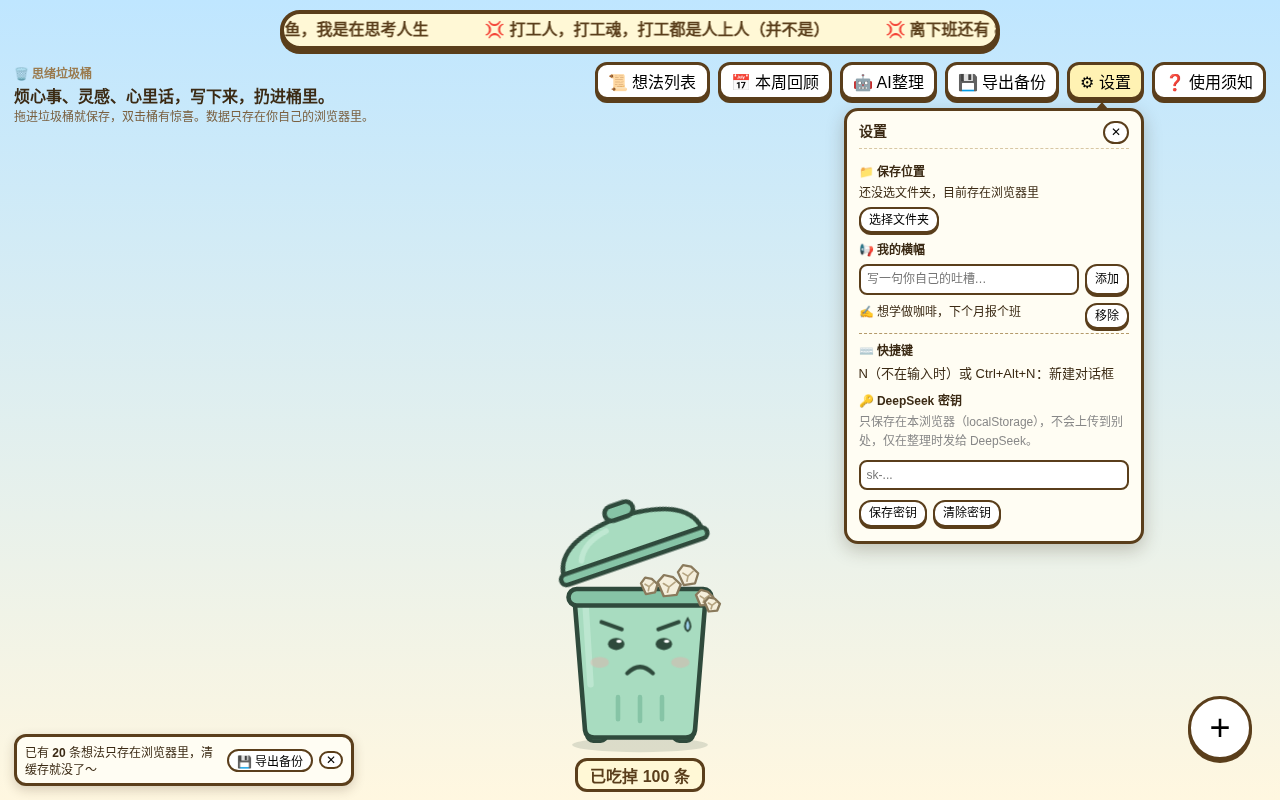
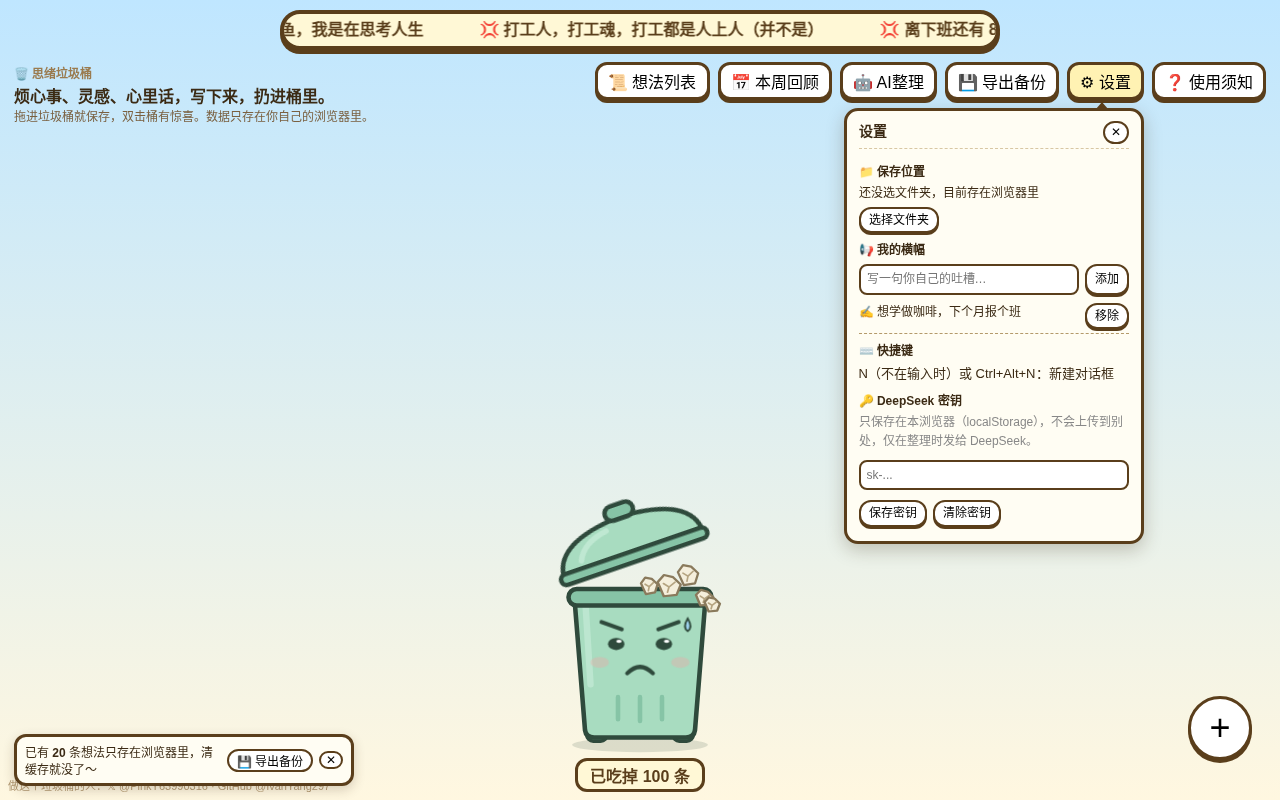
v1.1.1：新增作者 X / GitHub 链接（主页左下角、欢迎页底部、使用须知、README），冒烟测试校验链接与不压桶

diff --git a/js/help.js b/js/help.js
@@ -15,7 +15,7 @@ export function initHelpPopover(btn, onTour) {
   pop.id = 'help-pop'; pop.setAttribute('role', 'tooltip'); pop.tabIndex = -1;
   pop.innerHTML = `<div class="help-title">使用须知 <span class="ver">v1.1.1</span></div>` + SECTIONS.map(([h, items]) =>
     `<section><h4>${h}</h4>${items.map(i => `<p>${i}</p>`).join('')}</section>`).join('') +
-    `<p class="help-tour"><button id="help-tour">🧭 再看一遍新手引导</button></p><p class="help-foot">除了 AI 整理，全部可离线使用<br>本站使用 Cloudflare Web Analytics，仅用于匿名访问统计，不上传任何想法内容。</p>`;
+    `<p class="help-tour"><button id="help-tour">🧭 再看一遍新手引导</button></p><p class="help-foot">除了 AI 整理，全部可离线使用<br>本站使用 Cloudflare Web Analytics，仅用于匿名访问统计，不上传任何想法内容。</p><p class="help-contact"><a href="https://x.com/PinkY63990316?utm_source=ttb" target="_blank" rel="noopener">有想法、遇到问题？来 X 找我聊。</a></p>`;
   document.body.appendChild(pop);
   pop.querySelector('#help-tour').onclick = () => { pop.classList.remove('show'); onTour?.(); };
   btn.setAttribute('aria-describedby', 'help-pop'); btn.removeAttribute('title');

diff --git a/index.html b/index.html
@@ -76,6 +76,7 @@
   <div id="panel-body"></div>
 </aside>
 <div id="toast"></div>
+<footer id="author" class="author-links">做这个垃圾桶的人：<a href="https://x.com/PinkY63990316?utm_source=ttb" target="_blank" rel="noopener">𝕏 @PinkY63990316</a> · <a href="https://github.com/IvanYang297" target="_blank" rel="noopener">GitHub @IvanYang297</a></footer>
 <section id="landing" hidden>
   <div class="land-box">
     <h1>思绪垃圾桶</h1>
@@ -89,6 +90,7 @@
       <p>上班时脑子停不下来的打工人、想随手记灵感又懒得开笔记软件的人、需要找个地方吐槽和说心里话的人。</p>
     </div>
     <a href="#" id="land-skip">跳过</a>
+    <p class="land-author author-links">做这个垃圾桶的人：<a href="https://x.com/PinkY63990316?utm_source=ttb" target="_blank" rel="noopener">𝕏 @PinkY63990316</a> · <a href="https://github.com/IvanYang297" target="_blank" rel="noopener">GitHub @IvanYang297</a></p>
   </div>
 </section>
 <script type="module" src="js/main.js"></script>

diff --git a/css/style.css b/css/style.css
@@ -184,3 +184,11 @@ pre.result{white-space:pre-wrap;background:#fff;border:2px solid #ddd;padding:8p
 #backup-nudge button{font-size:12px;padding:1px 8px;border-width:2px;box-shadow:none}
 #backup-nudge .x{padding:0 5px}
 #help-pop .help-title .ver{font-size:11px;font-weight:normal;color:#9a7b4f;margin-left:4px}
+
+/* 作者链接：小字、淡色，放在左下角，宽度限制在垃圾桶左边，不压桶 */
+#author{position:fixed;left:8px;bottom:6px;z-index:5;max-width:calc(50vw - min(110px,15vw) - 20px);font-size:11px;line-height:1.4;color:#9a7b4f;opacity:.75;pointer-events:none}
+#author a,.author-links a{color:inherit;text-decoration:none;pointer-events:auto}
+#author a:hover,.author-links a:hover{text-decoration:underline}
+#author:hover{opacity:1}
+#landing .land-author{font-size:11px;color:#9a7b4f;margin:8px 0 0;opacity:.85}
+#help-pop .help-contact{margin:4px 0 0}#help-pop .help-contact a{color:#5a3e1b}

diff --git a/tests/smoke_test.py b/tests/smoke_test.py
@@ -303,6 +303,8 @@ with sync_playwright() as p:
     op.goto('http://127.0.0.1:8766/index.html'); op.wait_for_selector('#landing:not([hidden])')
     assert op.inner_text('#landing h1') == '思绪垃圾桶' and op.inner_text('#land-enter') == '进入垃圾桶 →' and '这是什么' in op.inner_text('#landing')
     op.screenshot(path=os.path.join(ROOT, 'docs', 'landing.png'))
+    la = op.locator('#landing .land-author a').evaluate_all('as => as.map(a => [a.href, a.target, a.rel])')
+    assert la == [['https://x.com/PinkY63990316?utm_source=ttb', '_blank', 'noopener'], ['https://github.com/IvanYang297', '_blank', 'noopener']], la; print('欢迎页作者链接 OK')
     op.click('#land-enter'); op.wait_for_selector('#tour-tip')
     assert '想到什么就写在这张卡片上' in op.inner_text('#tour-tip') and op.locator('.bubble.tour-mark').count() == 1
     seen = []
@@ -361,6 +363,19 @@ with sync_playwright() as p:
     vals = fp.locator('.bubble textarea').evaluate_all('ts => ts.map(t => [t.value, t.placeholder])')
     assert vals and all(v == '' and ph for v, ph in vals), vals
     assert fp.get_attribute('#trash', 'data-state') == 'happy' and float(fp.get_attribute('#trash', 'data-mood')) == 0 and 'Q120.0 192.0' in fp.get_attribute('#mouth-smile', 'd')
+    X, G = 'https://x.com/PinkY63990316?utm_source=ttb', 'https://github.com/IvanYang297'
+    def ov(a, c): return not (a['x'] + a['width'] <= c['x'] or c['x'] + c['width'] <= a['x'] or a['y'] + a['height'] <= c['y'] or c['y'] + c['height'] <= a['y'])
+    def author_ok(pg):
+        hr = pg.locator('#author a').evaluate_all('as => as.map(a => [a.href, a.target, a.rel, a.textContent])')
+        assert hr == [[X, '_blank', 'noopener', '𝕏 @PinkY63990316'], [G, '_blank', 'noopener', 'GitHub @IvanYang297']], hr
+        assert '做这个垃圾桶的人' in pg.text_content('#author')
+        fb = pg.locator('#author').bounding_box()
+        for sel in ['#trash-wrap', '#toolbar', '#btn-add'] + [f'.bubble >> nth={i}' for i in range(pg.locator('.bubble').count())]:
+            assert not ov(fb, pg.locator(sel).bounding_box()), (sel, fb)
+        assert fb['height'] < 80 and float(pg.evaluate("getComputedStyle(document.querySelector('#author')).fontSize").rstrip('px')) <= 12
+        hp = pg.locator('#help-pop .help-contact a'); assert hp.get_attribute('href') == X and hp.text_content() == '有想法、遇到问题？来 X 找我聊。'
+        return fb
+    print('作者链接 OK（桌面）', author_ok(fp))
     fp.evaluate('document.activeElement.blur()'); fp.wait_for_timeout(500)
     fp.screenshot(path=os.path.join(ROOT, 'docs', 'screenshot.png'))
     fp.click('#btn-list'); fp.wait_for_timeout(200); eb = fp.locator('#panel').bounding_box()
@@ -372,6 +387,7 @@ with sync_playwright() as p:
     ms = mp.locator('.bubble .tag-picker button').first.evaluate("b => [b.getBoundingClientRect().width, parseFloat(getComputedStyle(b.querySelector('.tg')).fontSize)]")
     assert ms[0] >= 48 and ms[1] >= 24, ms
     mp.locator('.bubble [data-tag=rant]').first.tap(force=True); mp.wait_for_timeout(200)
+    print('作者链接 OK（手机 390）', author_ok(mp))
     assert mp.text_content('#tag-tip') == '已选：吐槽'; mob.close(); print('触屏大按钮 + 点按提示 OK', ms)
     print('默认状态全为空提示语 OK:', [ph for _, ph in vals])
     b.close()

diff --git a/README.md b/README.md
@@ -1,5 +1,7 @@
 # 🗑 思绪垃圾桶
 
+作者：[@IvanYang297](https://github.com/IvanYang297) ｜ X：[@PinkY63990316](https://x.com/PinkY63990316)
+
 一个把乱糟糟的想法、上班吐槽、心里话随手“丢掉”的小网页。丢进去的东西不会消失，而是存成 Markdown 文件，需要时还能让 AI 帮你整理成计划。
 
 ![截图](docs/screenshot.png)

diff --git a/CHANGELOG.md b/CHANGELOG.md
@@ -2,6 +2,7 @@
 
 ## v1.1.1（2026-10-22）
 - 本周回顾图片底部加印网址 `thought-trash-bin.pages.dev`，在微信里转发图片也能找到网站。
+- 新增作者 X / GitHub 链接：主页左下角和欢迎页底部各一行小字，「使用须知」最后一行可直接去 X 找我聊；README 顶部也写上了作者。
 
 ## v1.1（2026-10-22）
 **修复**
